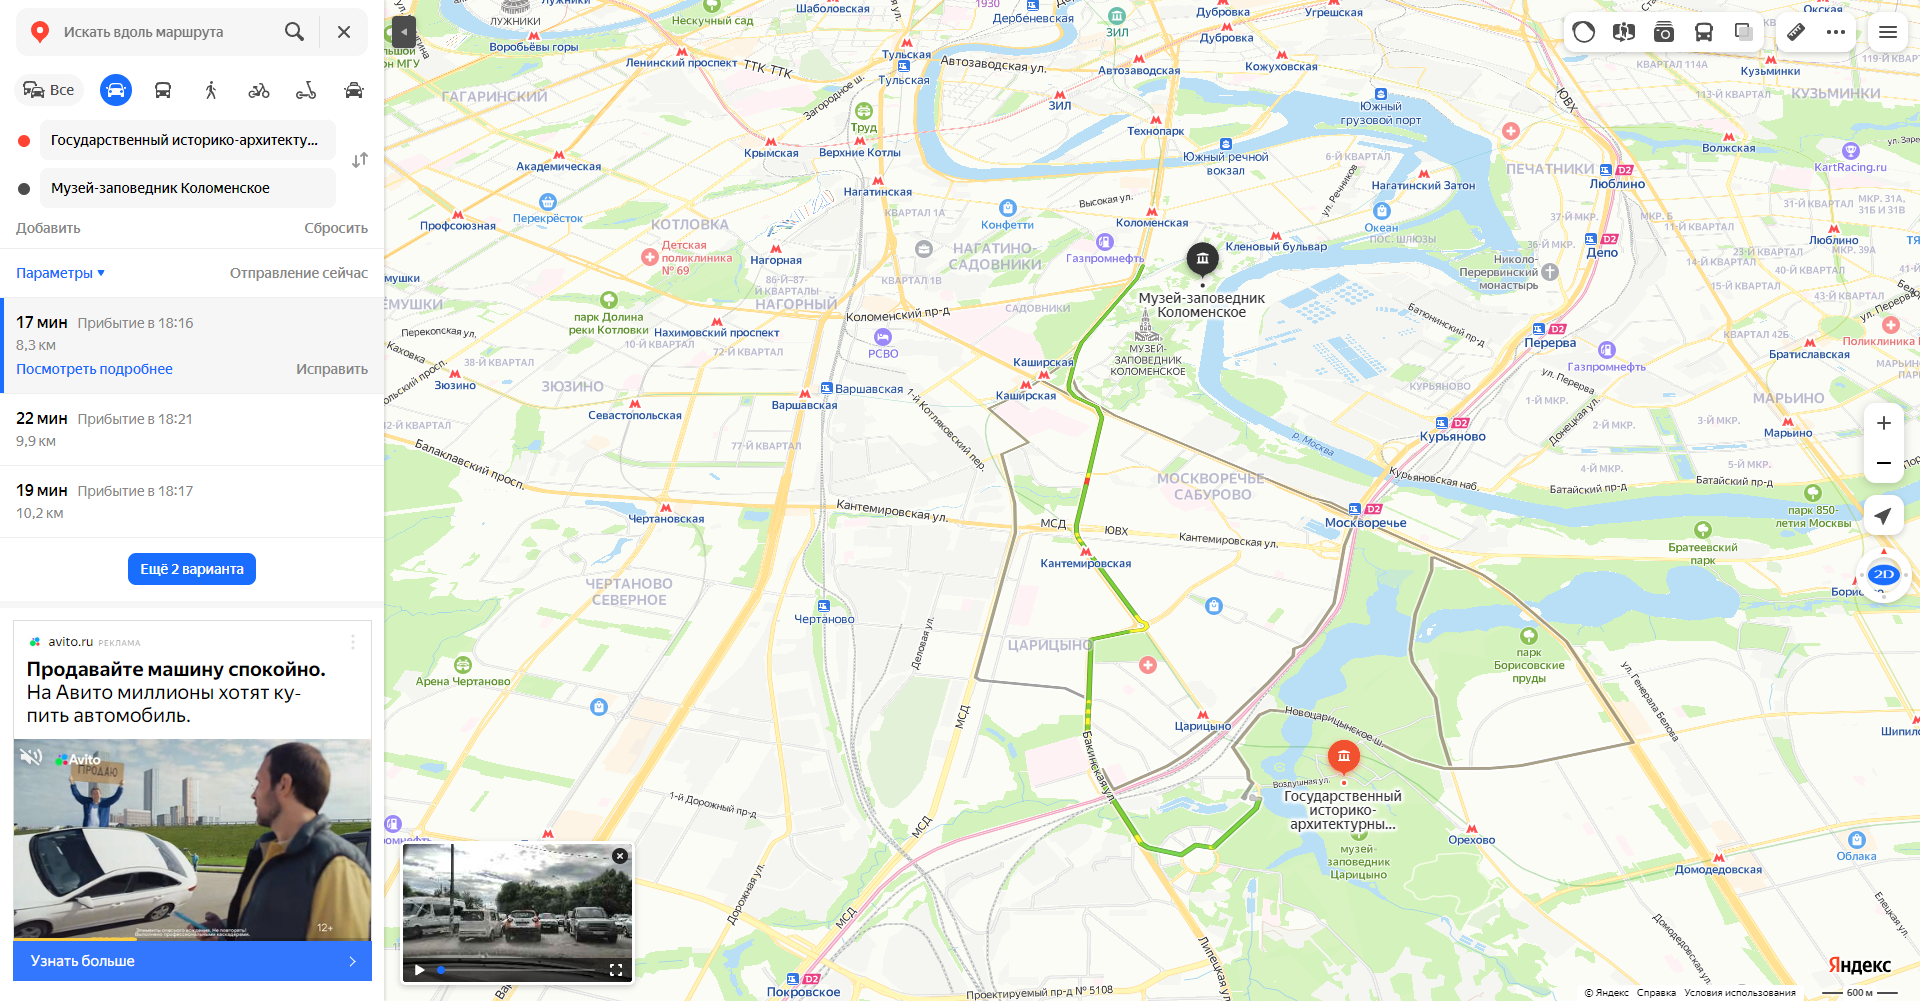
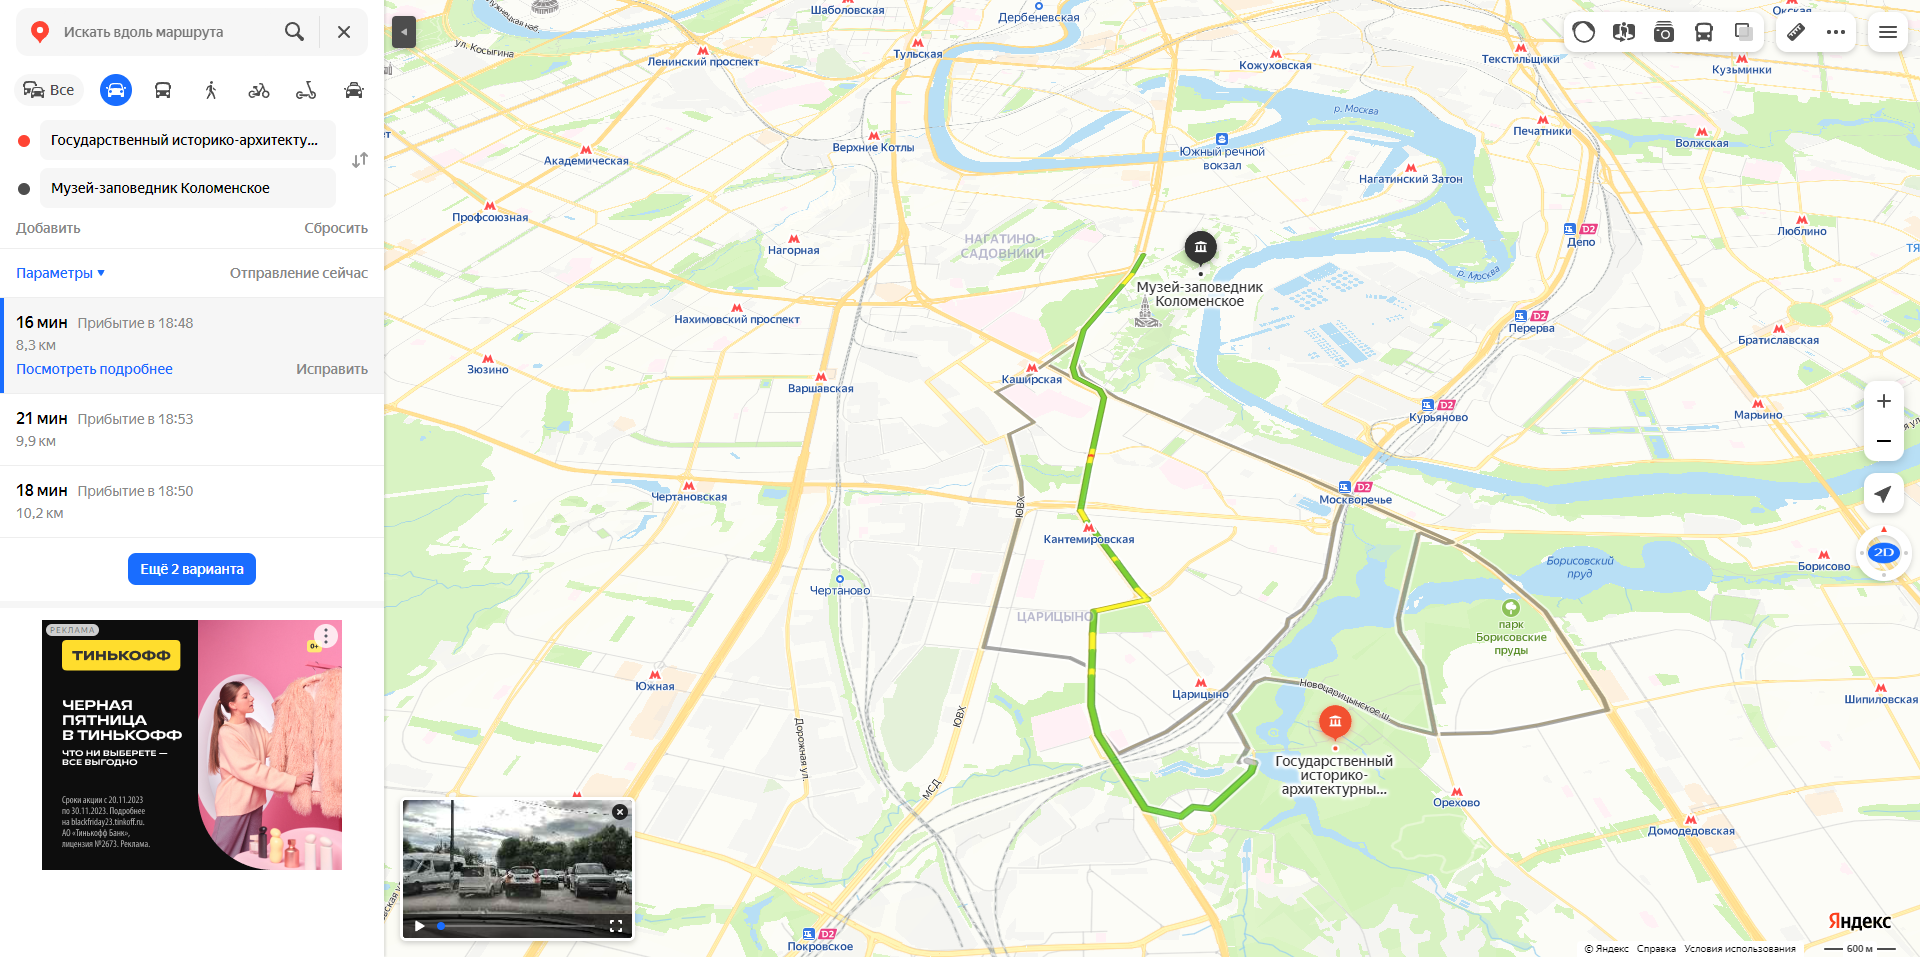
Files updated

diff --git a/tests/map_page_positive.py b/tests/map_page_positive.py
@@ -16,8 +16,6 @@ class TestMapPagePositive:
 
         page = MainPage(driver)
         page.wait_page_loaded()
-        page.incrise_map_size(amount="low")
-        page.wait_page_loaded()
         page.enter_searching_address("Москва, Поклонная гора")
         page.submit_search_btn_click()
         page.wait_page_loaded()
@@ -88,15 +86,14 @@ class TestMapPagePositive:
         page.wait_page_loaded()
         page.build_route_btn_click(driver)
         page.wait_page_loaded()
-        page.enter_departure_address(driver, "Государственный историко-архитектурный художественный и ландшафтный "
-                                             "музей-заповедник Царицыно")
+        page.enter_departure_address(driver, "Музей-заповедник Царицыно")
         page.enter_destination_address(driver, "Музей-заповедник Коломенское")
         page.decrease_map_size("medium")
         page.wait_page_loaded()
         result = page.check_all_variants_of_arrivals(driver)
+
         if len(result) != 0:
             page.make_screenshot(file_path=screenshots_folder + "\\test_build_route_by_car.png")
-            colorama.init()
             print(Style.DIM + Fore.GREEN + f"\n\nТест test_build_route_by_car выполнен успешно, маршрут "
                                            f"построен.\nВремя в пути (все предложенные варианты): {result}")
         else:
